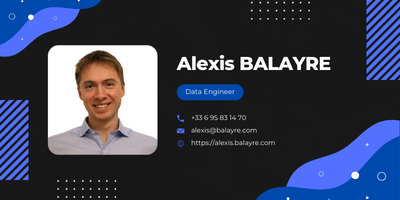
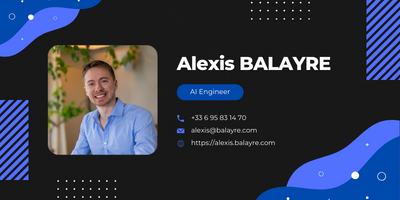
Updated metadata

Changed region(s): [[0.12, 0.21, 0.42, 0.78], [0.45, 0.45, 0.6, 0.48]]

diff --git a/packages/nextjs/components/MetaHeader.tsx b/packages/nextjs/components/MetaHeader.tsx
@@ -4,29 +4,29 @@ import Head from "next/head";
 export const MetaHeader = () => {
   return (
     <Head>
-      <title>Alexis Balayre: Expert Data Engineer & Blockchain Developer</title>
+      <title>Alexis Balayre: AI Engineer & Blockchain Specialist</title>
       <meta charSet="utf-8" />
       <meta
         name="description"
-        content="Find out more about Alexis Balayre's career as a Data engineer and Blockchain developer. Specialising in Web3 and AI technologies, Alexis transforms complex data into usable information. Explore his projects and skills today."
+        content="Find out more about Alexis Balayre's career as an AI engineer. Specialising in Web3 and AI technologies, Alexis transforms complex data into usable information. Explore his projects and skills today."
       />
       <meta property="og:type" content="website" />
-      <meta property="og:site_name" content="Alexis Balayre - Data Engineer | Blockchain Developer" />
-      <meta property="og:title" content="Alexis Balayre - Data Engineer | Blockchain Developer" />
+      <meta property="og:site_name" content="Alexis Balayre - AI Engineer" />
+      <meta property="og:title" content="Alexis Balayre - AI Engineer" />
       <meta
         property="og:description"
-        content="Find out more about Alexis Balayre's career as a Data engineer and Blockchain developer. Specialising in Web3 and AI technologies, Alexis transforms complex data into usable information. Explore his projects and skills today."
+        content="Find out more about Alexis Balayre's career as an AI engineer. Specialising in Web3 and AI technologies, Alexis transforms complex data into usable information. Explore his projects and skills today."
       />
       <meta property="og:image" content="https://alexis.balayre.com/preview.png" />
       <meta name="twitter:card" content="summary_large_image" />
       <meta
         name="twitter:description"
-        content="Find out more about Alexis Balayre's career as a Data engineer and Blockchain developer. Specialising in Web3 and AI technologies, Alexis transforms complex data into usable information. Explore his projects and skills today."
+        content="Find out more about Alexis Balayre's career as an AI engineer. Specialising in Web3 and AI technologies, Alexis transforms complex data into usable information. Explore his projects and skills today."
       />
       <meta name="twitter:image" content="https://alexis.balayre.com/preview.png" />
       <meta
         name="keywords"
-        content="Alexis Balayre, French, Data Engineering Expert, Blockchain Development Specialist, Machine Learning, AI, Web3 Technologies, Smart Contracts Developer, Ethereum Blockchain, Data Analytics Engineer, Cryptocurrency Technology, Decentralized Applications (DApps), ISEP, Cranfield University, Paris"
+        content="Alexis Balayre, Data, Artificial Intelligence, AI, LLM, Intelligence Artificielle, IA, Machine Learning, ISEP, Cranfield University, Paris"
       />
       <meta httpEquiv="Content-Security-Policy" content="upgrade-insecure-requests" />
       <link rel="icon" type="image/x-icon" href="/favicon.ico" />
